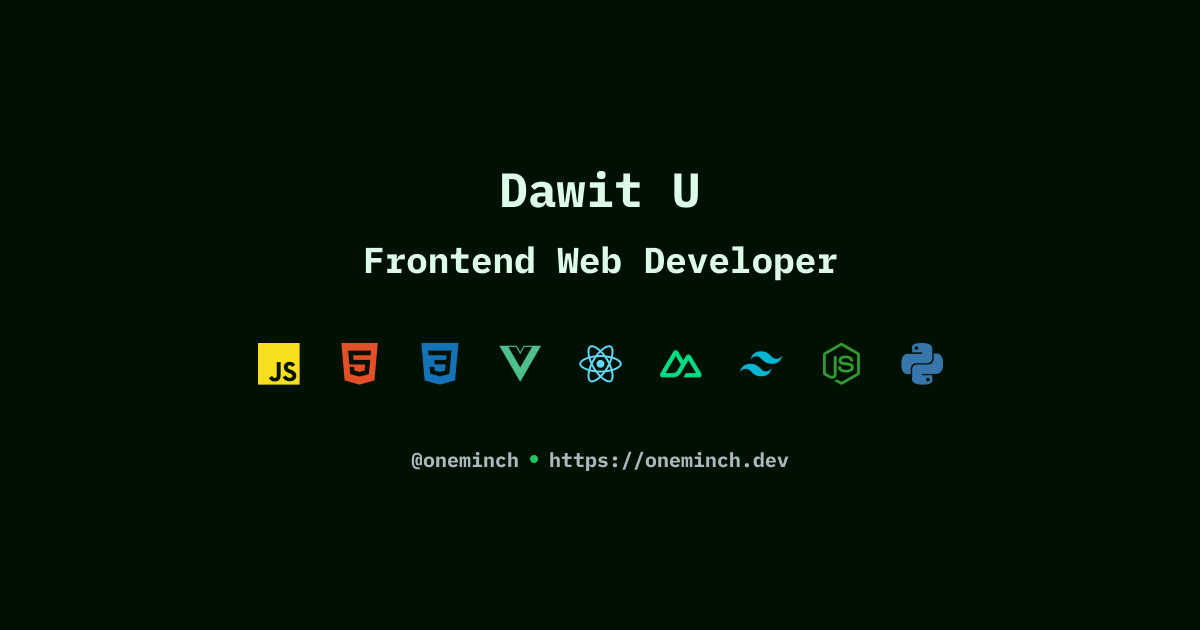
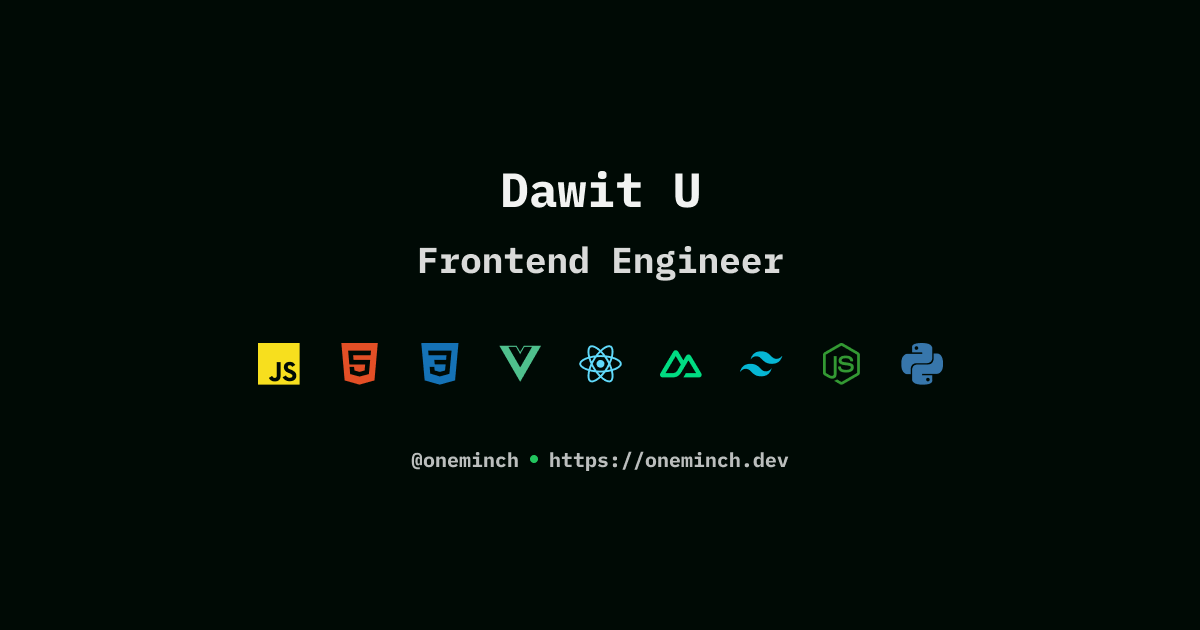
refactor: update OG image and professional title

Changed region(s): [[0.2775, 0.3921, 0.7092, 0.4524], [0.4317, 0.2714, 0.5242, 0.3317], [0.555, 0.2714, 0.5858, 0.3317]]

diff --git a/components/cards/AppProfileCard.vue b/components/cards/AppProfileCard.vue
@@ -26,7 +26,7 @@
       Dawit
     </h2>
     <h2 class="text-lg font-medium md:text-xl text-zinc-700 dark:text-zinc-400">
-      Frontend Developer
+      Frontend Engineer
     </h2>
     <div
       class="flex items-center justify-center w-full h-8 text-zinc-900 dark:text-zinc-200"

diff --git a/pages/index.vue b/pages/index.vue
@@ -1,6 +1,6 @@
 <script setup>
   const seoMeta = {
-    title: "Dawit - Frontend Developer",
+    title: "Dawit - Frontend Engineer",
     description: "I craft delightful and accessible web interfaces.",
     image: "/og-image.png",
     page: ""
